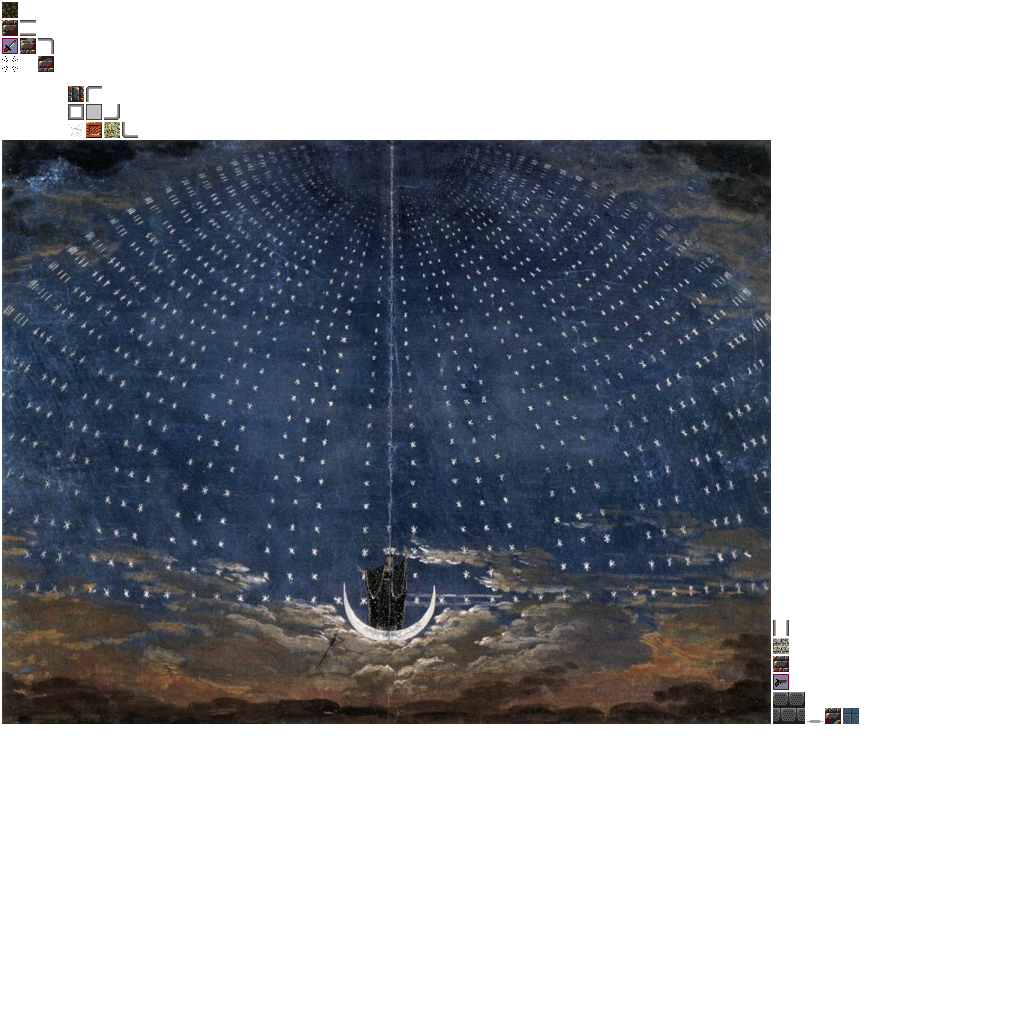
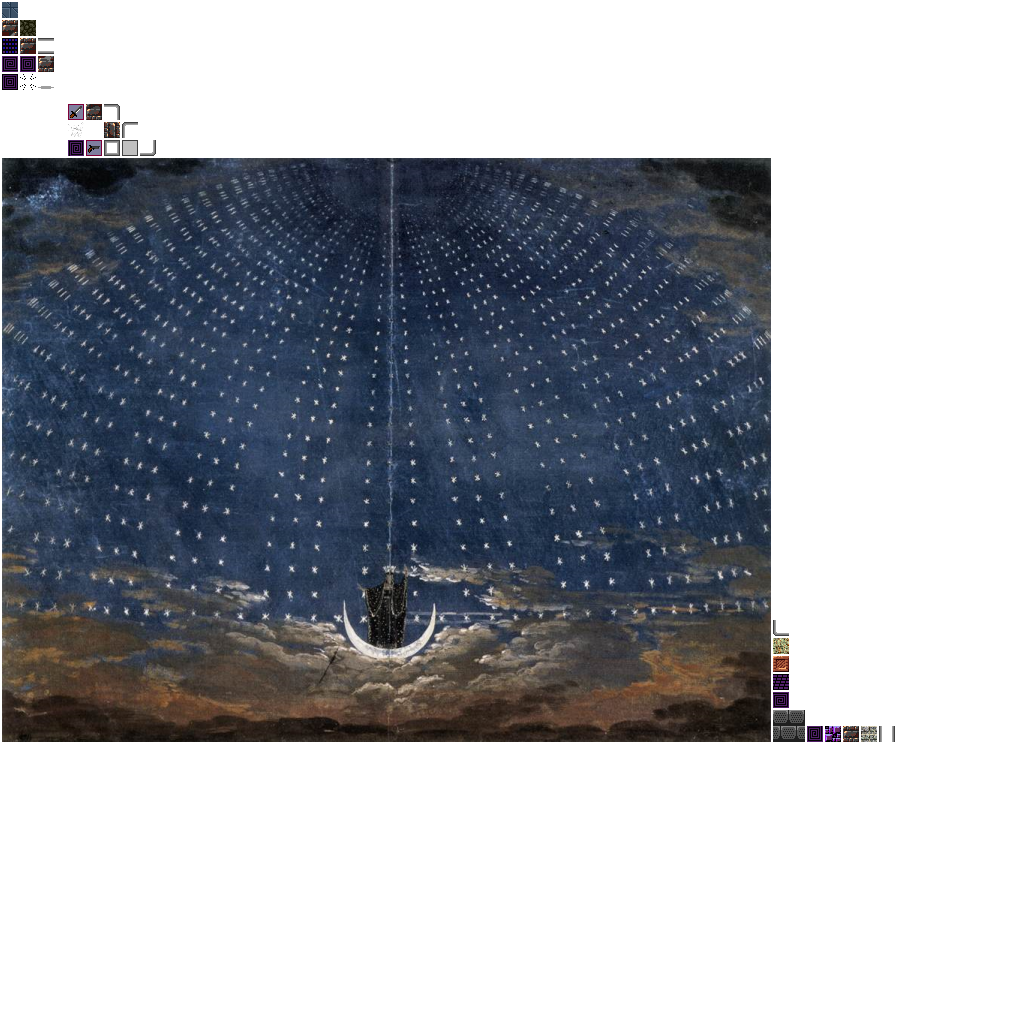
WIP - new test tile set

Changed region(s): [[0.0, 0.0625, 0.875, 0.75], [0.0, 0.0, 0.0625, 0.0938]]

diff --git a/core/src/lando/systems/lordsandships/scene/TileMap.java b/core/src/lando/systems/lordsandships/scene/TileMap.java
@@ -31,21 +31,21 @@ public class TileMap implements Disposable
 		Map<String, TextureRegion> tiles = new HashMap<String, TextureRegion>();
 		tiles.put("tile-blank",       Assets.atlas.findRegion("tile-blank"));
 		tiles.put("tile-block",       Assets.atlas.findRegion("tile-block"));
-		tiles.put("tile-box",       Assets.atlas.findRegion("tile-box"));
-		tiles.put("tile-floor1",      Assets.atlas.findRegion("tile-floor1"));
+		tiles.put("tile-box",         Assets.atlas.findRegion("purple_floor_tile1"));//tile-box"));
+		tiles.put("tile-floor1",      Assets.atlas.findRegion("purple_floor_tile1"));//tile-floor1"));
 		tiles.put("tile-wall-horiz",  Assets.atlas.findRegion("tile-wall-horiz"));
 		tiles.put("tile-wall-vert",   Assets.atlas.findRegion("tile-wall-vert"));
 		tiles.put("tile-wall-nw",     Assets.atlas.findRegion("tile-wall-nw"));
 		tiles.put("tile-wall-ne",     Assets.atlas.findRegion("tile-wall-ne"));
 		tiles.put("tile-wall-se",     Assets.atlas.findRegion("tile-wall-se"));
 		tiles.put("tile-wall-sw",     Assets.atlas.findRegion("tile-wall-sw"));
-		tiles.put("tile-brick-horiz", Assets.atlas.findRegion("tile-brick-horiz"));
-		tiles.put("tile-brick-vert",  Assets.atlas.findRegion("tile-brick-vert"));
-		tiles.put("tile-brick-nw",    Assets.atlas.findRegion("tile-brick-nw"));
-		tiles.put("tile-brick-ne",    Assets.atlas.findRegion("tile-brick-ne"));
-		tiles.put("tile-brick-se",    Assets.atlas.findRegion("tile-brick-se"));
-		tiles.put("tile-brick-sw",    Assets.atlas.findRegion("tile-brick-sw"));
-		tiles.put("grate",            Assets.atlas.findRegion("tile-floor5"));
+		tiles.put("tile-brick-horiz", Assets.atlas.findRegion("purple_floor_tile1"));//tile-brick-horiz"));
+		tiles.put("tile-brick-vert",  Assets.atlas.findRegion("purple_floor_tile1"));//tile-brick-vert"));
+		tiles.put("tile-brick-nw",    Assets.atlas.findRegion("purple_floor_tile1"));//"tile-brick-nw"));
+		tiles.put("tile-brick-ne",    Assets.atlas.findRegion("purple_floor_tile1"));//"tile-brick-ne"));
+		tiles.put("tile-brick-se",    Assets.atlas.findRegion("purple_floor_tile1"));//"tile-brick-se"));
+		tiles.put("tile-brick-sw",    Assets.atlas.findRegion("purple_floor_tile1"));//tile-brick-sw"));
+		tiles.put("grate",            Assets.atlas.findRegion("purple_bricks1"));//tile-floor5"));
 
 		tile_textures = Collections.unmodifiableMap(tiles);
 		tile_textures_keys = new ArrayList<String>(tile_textures.keySet());
